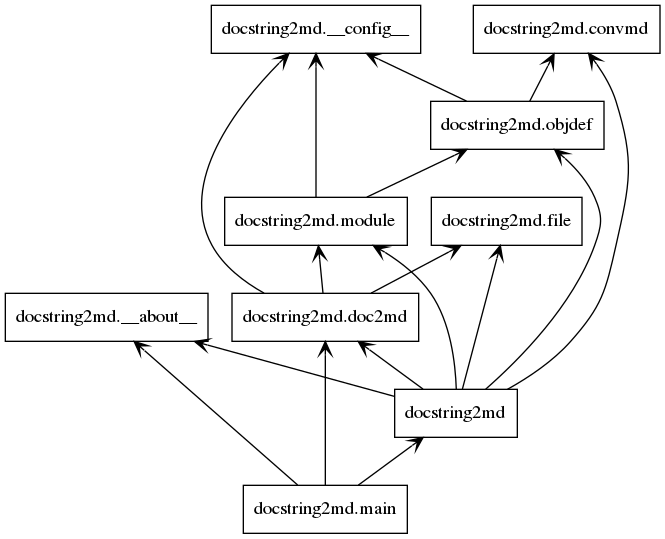
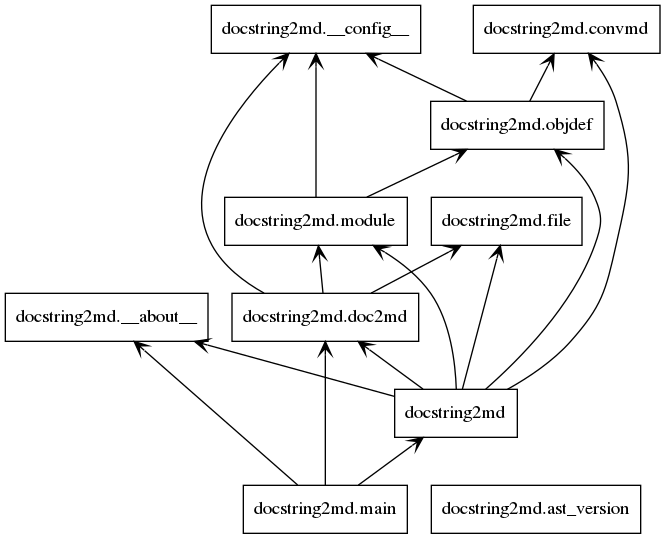
release and prepare next version

Changed region(s): [[0.6316, 0.8905, 0.9624, 1.0]]

diff --git a/docstring2md/ast_version.py b/docstring2md/ast_version.py
@@ -1,0 +1,137 @@
+# -*- coding: utf-8 -*-
+"""Parse Python source code and get or print docstrings."""
+
+__all__ = ('get_docstrings', 'print_docstrings')
+
+import ast
+from itertools import groupby
+from os.path import basename, splitext
+
+class FuncLister(ast.NodeVisitor):
+    def __init__(self):
+        super(ast.NodeVisitor, self).__init__()
+
+    def __set_parent(self, node):
+        for child in ast.iter_child_nodes(node):
+            child.parent = node
+
+    def __get_args(self, node):
+        argument=[]
+        for arg in node.args.args:
+            argument.append(arg.arg)
+
+        idx = len(argument) - len(node.args.defaults)
+        for arg in node.args.defaults:
+            value="unknown"
+            # print(ast.dump(arg))
+            if isinstance(arg, ast.Num):
+                value = arg.n
+            if isinstance(arg, ast.Str):
+                value = arg.s
+            if isinstance(arg, ast.NameConstant):
+                value = arg.value
+            argument[idx] = argument[idx] + "=" + str(value)
+            idx += 1
+        if hasattr(node.args.vararg, "arg"):
+            argument.append("*{}".format(node.args.vararg.arg))
+        if hasattr(node.args.kwarg, "arg"):
+            argument.append("**{}".format(node.args.kwarg.arg))
+
+        return "({})".format(', '.join(argument))
+
+    def __get_decorator_args(self, node):
+        args=[]
+        for attribute in node.args:
+            if isinstance(node.func, ast.Name):
+                attribute_id = attribute.id
+            else:
+                attribute_id = attribute.value.id
+            attribute_attr = ""
+            if hasattr(attribute, "attr"):
+                attribute_attr = "." + attribute.attr
+
+            args.append(attribute_id + attribute_attr)
+
+        return "({})".format(', '.join(args))
+
+    def __get_decorator(self, node):
+        decorator=[]
+        for dec in node.decorator_list:
+            name = ''
+            if isinstance(dec, ast.Name):
+                name = dec.id
+            elif isinstance(dec, ast.Attribute):
+                name = dec.attr
+            elif isinstance(dec, ast.Call):
+                if isinstance(dec.func, ast.Attribute):
+                    name = dec.func.value.id
+                else:
+                    name = dec.func.id
+                if hasattr(dec.func, "attr"):
+                    name = name + "." + dec.func.attr
+                if hasattr(dec, "args"):
+                    self.__get_decorator_args(dec)
+                    name += self.__get_decorator_args(dec)
+            decorator.append("@" + name)
+
+        return decorator
+
+    def __get_fullname(self, node):
+        if hasattr(node, "parent"):
+            return "{}.{}".format(
+                self.__get_fullname(node.parent),
+                node.name
+            )
+        else:
+            return node.name
+
+    def __get_docstring(self, node):
+        return ast.get_docstring(node)
+
+    def __get_inheritance(self, node):
+        inher=[]
+        for base in node.bases:
+            inher.append(base.id)
+        return "({})".format(', '.join(inher))
+
+    def visit_ClassDef(self, node):
+        self.__set_parent(node)
+        print("classe {}{}:\n{}".format(
+                node.name,
+                self.__get_inheritance(node),
+                self.__get_docstring(node)
+            )
+        )
+        self.generic_visit(node)
+
+    def visit_FunctionDef(self, node):
+        if node.name.startswith("__") is not True:
+            self.__set_parent(node)
+            if hasattr(node, "decorator_list"):
+                decorator = self.__get_decorator(node)
+            print("{}\ndef {}{}:".format(
+                    '\n'.join(decorator),
+                    self.__get_fullname(node),
+                    self.__get_args(node)
+                )
+            )
+            print(self.__get_docstring(node))
+        self.generic_visit(node)
+
+
+def get_docstrings(source, module='<string>'):
+    if hasattr(source, 'read'):
+        filename = getattr(source, 'name', module)
+        module = splitext(basename(filename))[0]
+        source = source.read()
+
+    tree = ast.parse(source)
+    FuncLister().visit(tree)
+    exit()
+
+
+if __name__ == '__main__':
+    import sys
+    
+    with open(sys.argv[1]) as fp:
+        get_docstrings(fp)

diff --git a/docstring2md/__init__.py b/docstring2md/__init__.py
@@ -104,10 +104,10 @@ Enjoy...
 - [X] Add-on : class properties
 - [X] Add-on : runtime & requirements
 - [X] Add-on : toc
-- [ ] Write Doc/stringdoc
+- [X] Write Doc/stringdoc
 - [X] Run PEP8 validation
-- [ ] Clean & last check
-- [ ] Release
+- [X] Clean & last check
+- [X] Release
 
 ## License
 

diff --git a/docstring2md/objdef.py b/docstring2md/objdef.py
@@ -39,7 +39,7 @@ class TitleObj(object):
 
     def __init__(self, title, level):
         """
-        Init => store the sting in value and level (H1/H2/H3/...)
+        Init => store the string in value and level (H1/H2/H3/...)
         """
         self.__title = None
         self.__level = None

diff --git a/README.md b/README.md
@@ -101,10 +101,10 @@ Enjoy...
 - [X] Add-on : class properties
 - [X] Add-on : runtime & requirements
 - [X] Add-on : toc
-- [ ] Write Doc/stringdoc
+- [X] Write Doc/stringdoc
 - [X] Run PEP8 validation
-- [ ] Clean & last check
-- [ ] Release
+- [X] Clean & last check
+- [X] Release
 
 ## License
 
